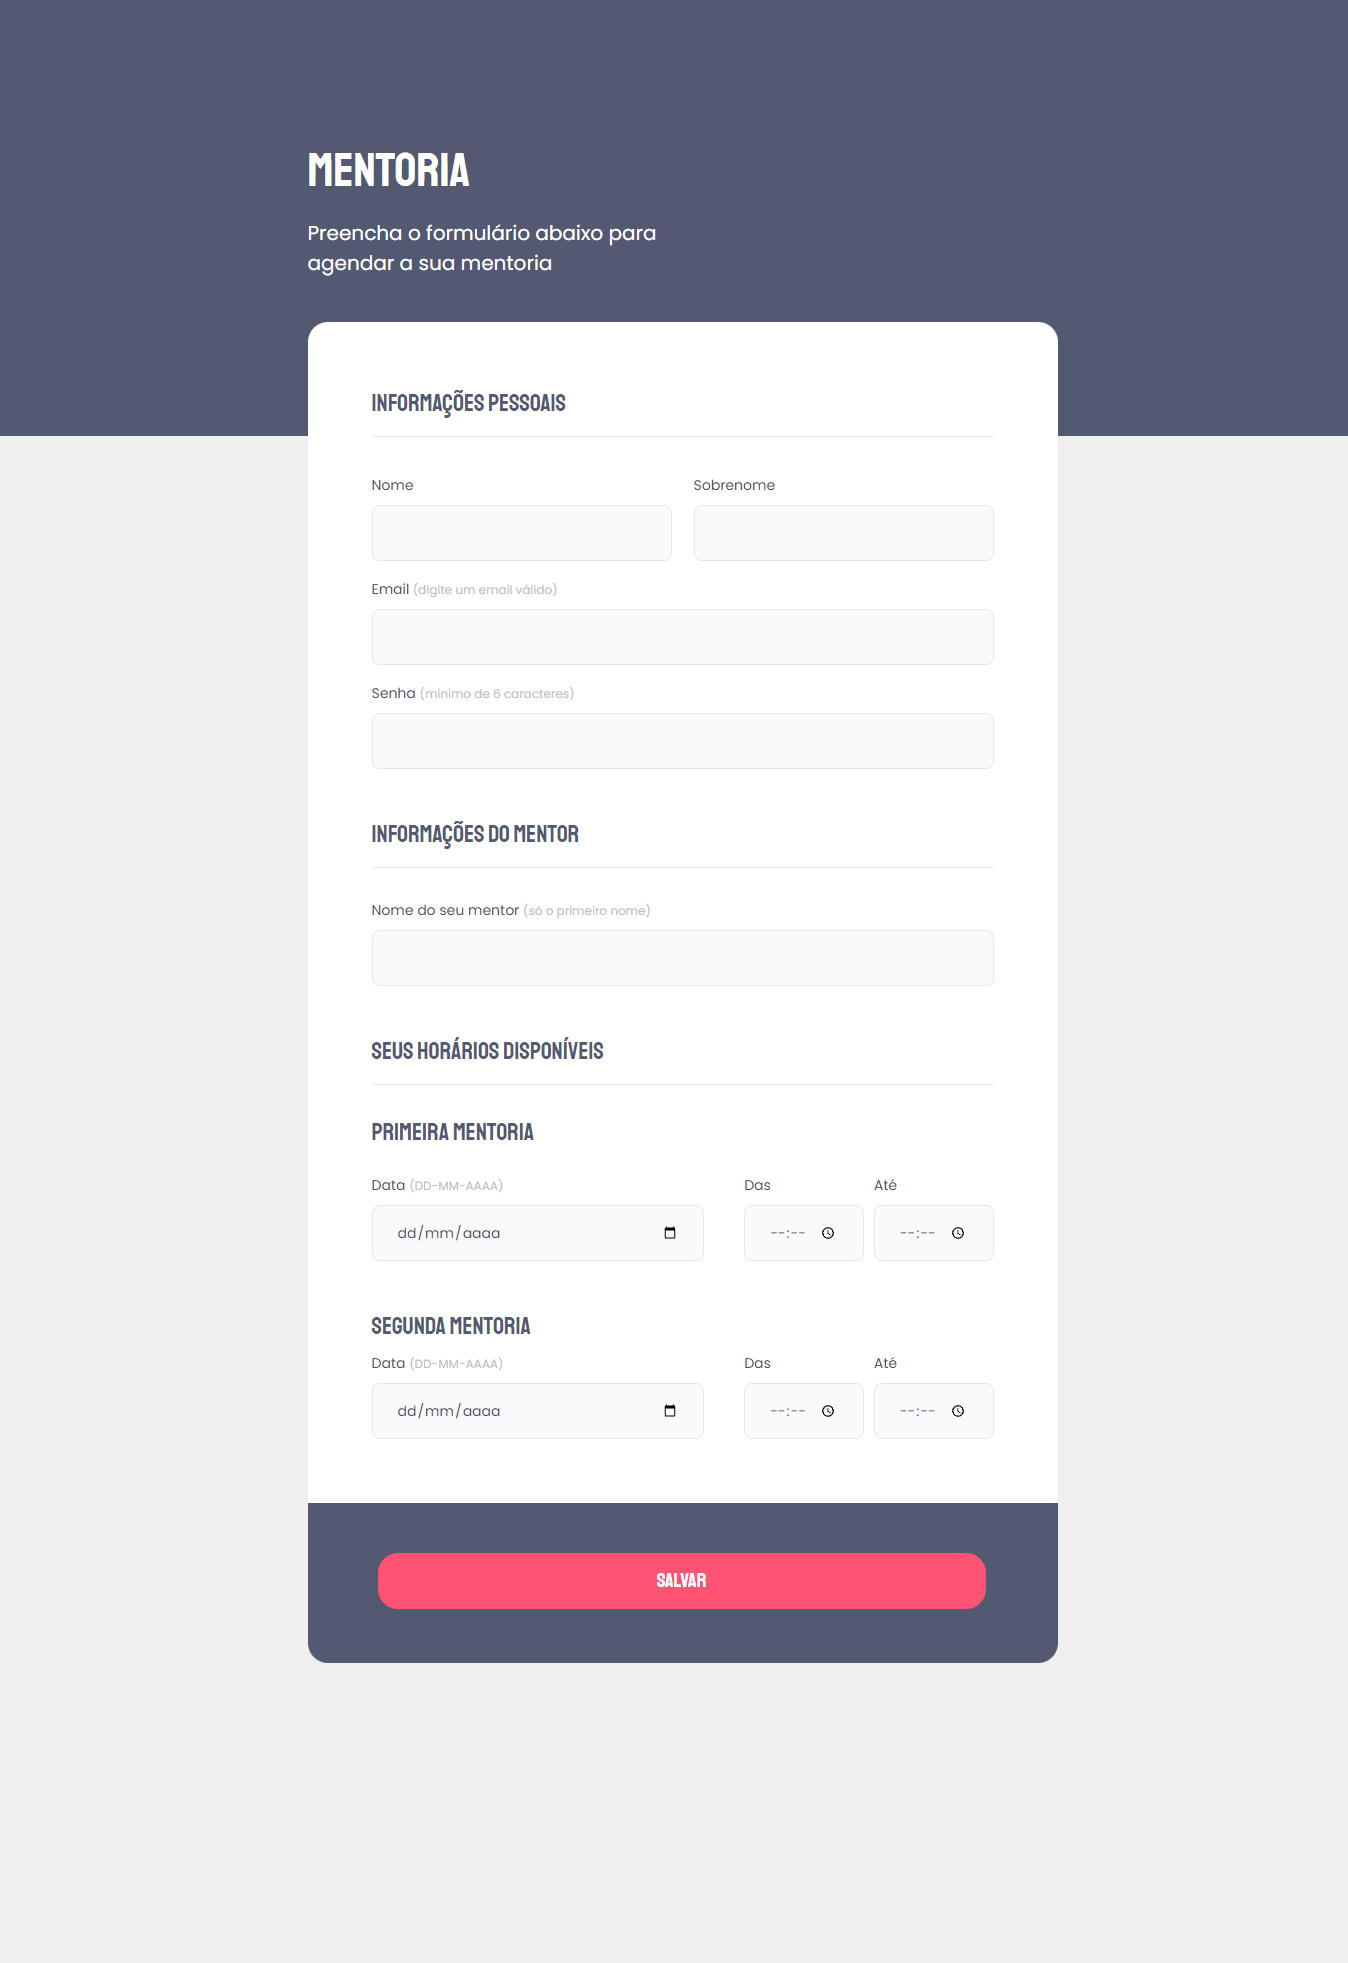
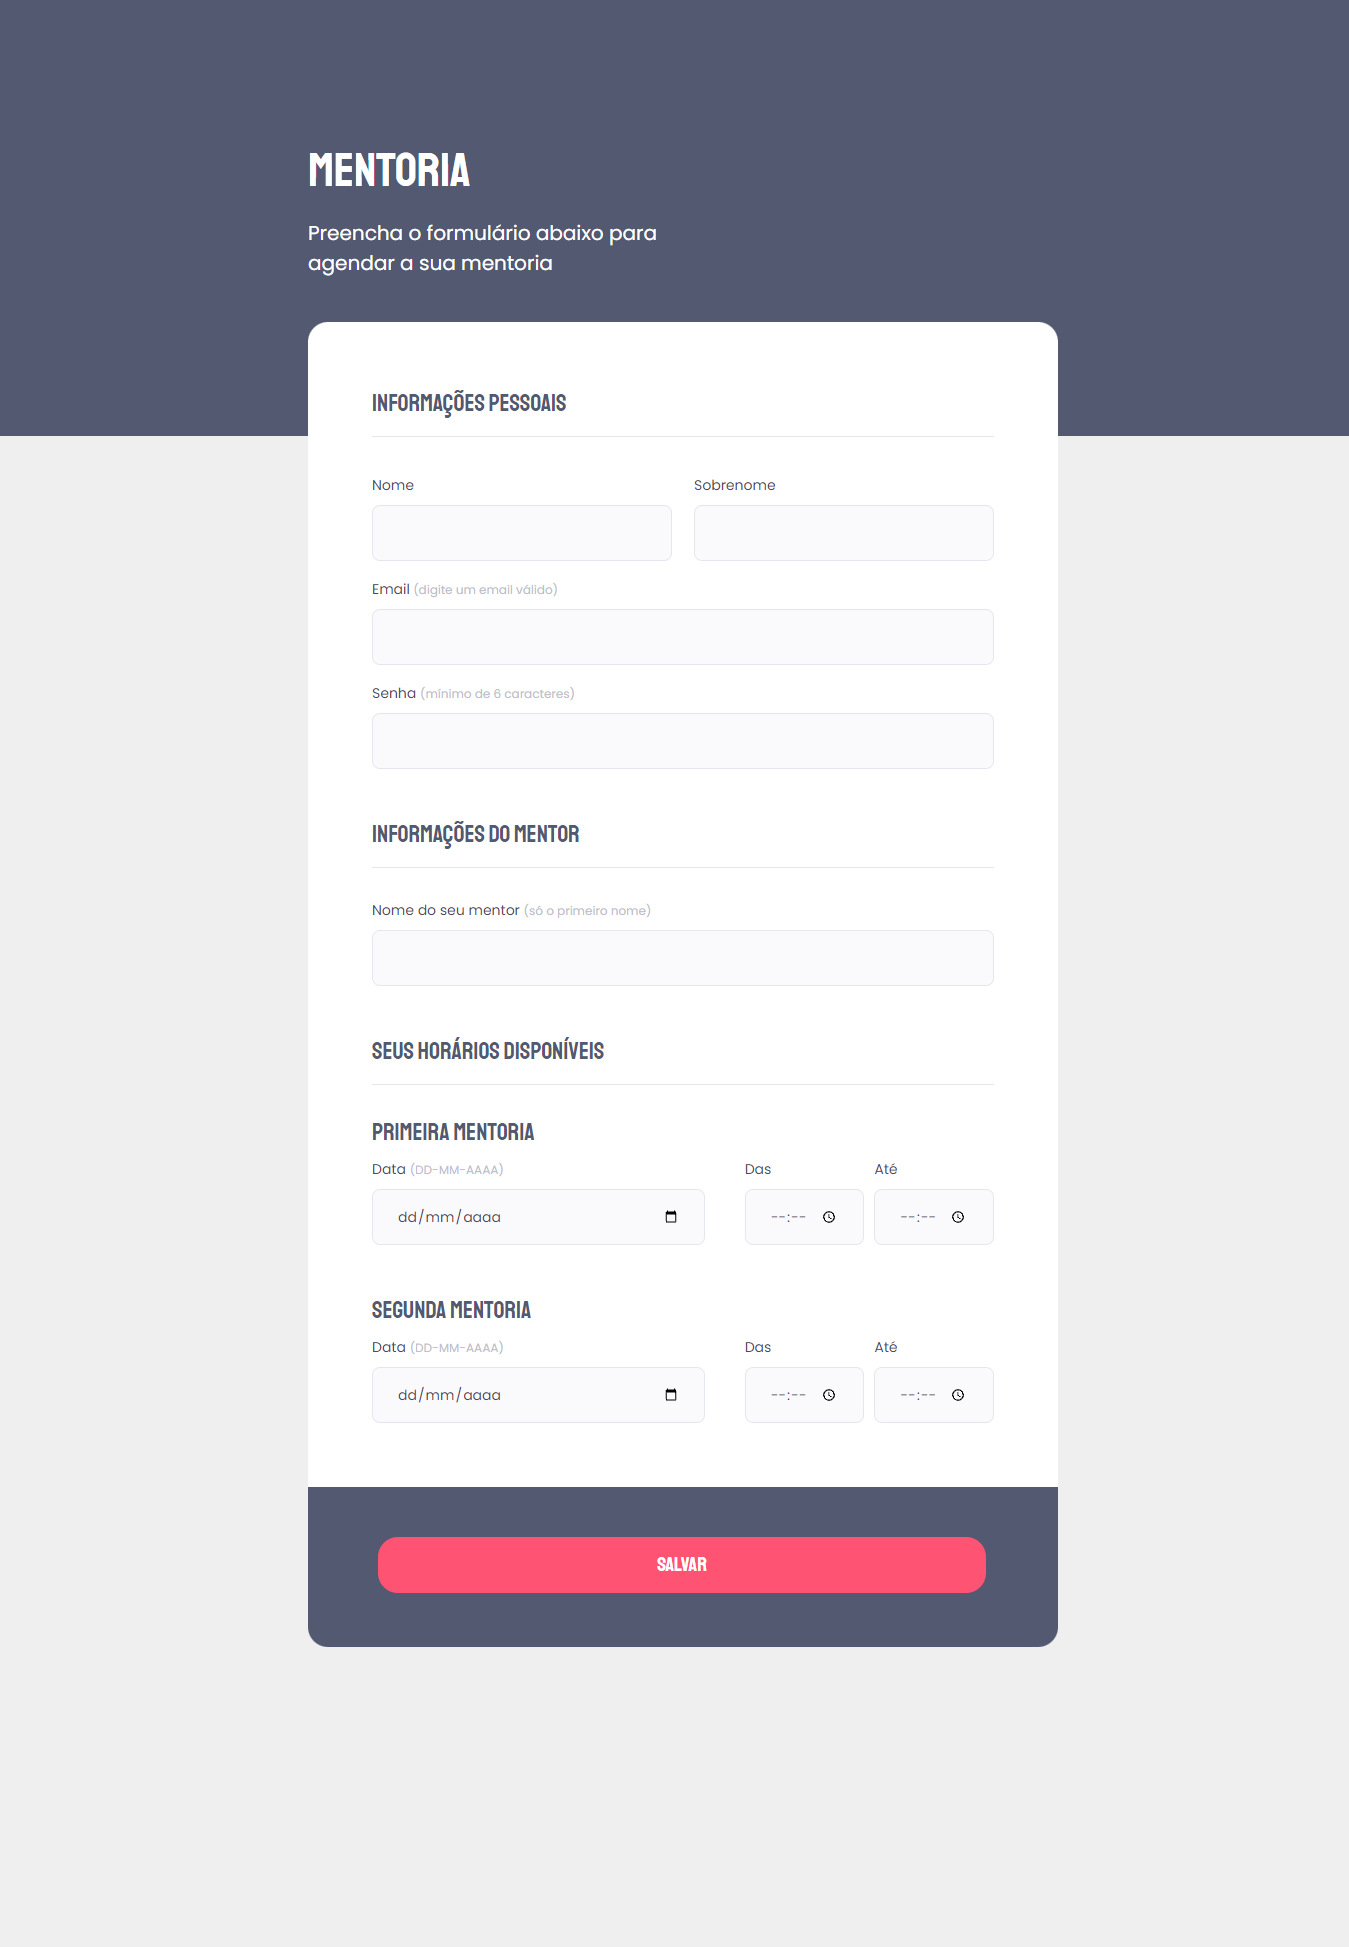
improve layout

diff --git a/index.html b/index.html
@@ -59,7 +59,7 @@
           </div>
         </fieldset>
 
-        <fieldset>
+        <fieldset class="no-gap">
           <legend id="subtitle-time">Seus horários disponíveis</legend>
 
           <legend id="first-mentor">Primeira Mentoria</legend>

diff --git a/style.css b/style.css
@@ -201,3 +201,6 @@ footer .button:hover{
   background: #f74266;
 }
 
+.no-gap {
+  gap: 0px;
+}
